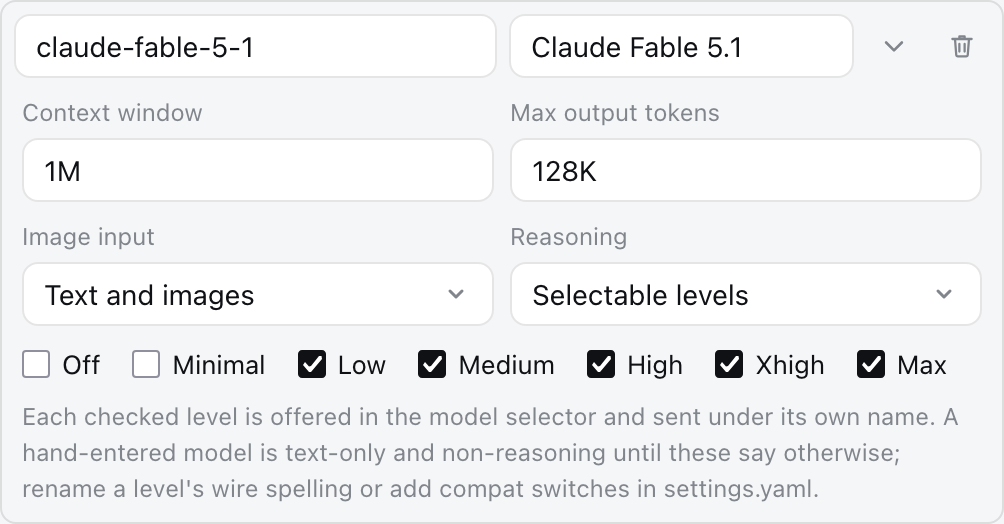
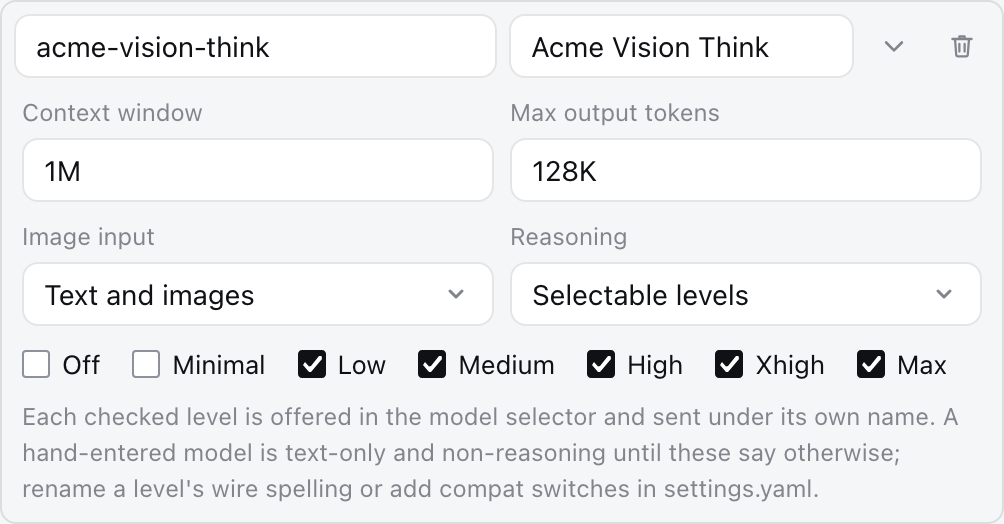
docs(readme): retake the Models screenshots in an isolated home and describe the fork
The Models-page and settings-nav pictures now come from a second dsh web
started against an isolated DSH_HOME with a fictitious acme-gateway
provider, no key, and no sessions, and the save path was verified as a
settings.yaml round trip plus the server's llm.models reply. The README
records that method, the fork's repository and issue routing, and that the
fork's additions inherit the upstream MIT license; the guide's Chinese
image-input heading gains the explicit anchor the shared fragment needs.

Changed region(s): [[0.5249, 0.0611, 0.7719, 0.1221], [0.0309, 0.0611, 0.2779, 0.1221]]

diff --git a/README.zh.md b/README.zh.md
@@ -46,13 +46,21 @@
 
 ![两个会话批量删除后的弹窗：空闲会话已删除，运行中会话的拒绝原因已显示，只有它仍处于选中状态](docs/user/guide/session-delete-partial-failure.png)
 
-**手动录入模型的视觉与推理能力。** 在模型页手动添加的模型——比已安装 pi-ai 目录更新的版本，或公司网关上的模型——在 `settings.yaml` 另行声明之前一律是纯文本、不推理的：粘贴图片会退化成一个文件引用，模型选择器也不提供任何思考档位。现在该行的**高级**折叠把两者与容量放在一起编辑。**图片输入**在跟随目录默认、文本 + 图片、仅文本之间选择；**推理**在跟随目录默认、不推理、以及勾选 pi-ai 七个档位的自定义集合之间选择，每个档位按规范的发送名称写入。控件无法表达的手写值会如实显示并保留，只剩 `off` 的字典在写入前即被拒绝，改写发送名称与 `compat` 开关仍留在 `settings.yaml` 中。详见[配置模型](docs/user/guide/providers.zh.md#图片输入)。
+**手动录入模型的视觉与推理能力。** 在模型页手动添加的模型——比已安装 pi-ai 目录更新的版本，或公司网关上的模型——在 `settings.yaml` 另行声明之前一律是纯文本、不推理的：粘贴图片会退化成一个文件引用，模型选择器也不提供任何思考档位。现在该行的**高级**折叠把两者与容量放在一起编辑。**图片输入**在跟随目录默认、文本 + 图片、仅文本之间选择；**推理**在跟随目录默认、不推理、以及勾选 pi-ai 七个档位的自定义集合之间选择，每个档位按规范的发送名称写入。控件无法表达的手写值会如实显示并保留，只剩 `off` 的字典在写入前即被拒绝，改写发送名称与 `compat` 开关仍留在 `settings.yaml` 中。详见[配置模型](docs/user/guide/providers.zh.md#image-input)。
 
 ![模型行的高级折叠：图片输入设为"文本 + 图片"，推理设为"自定义可选档位"](docs/user/guide/providers-model-capabilities.zh.png)
+
+放回自定义提供方的编辑卡片里看：折叠就在它所配置的那一行下面，模型、容量与能力声明一起读取、一起保存：
+
+![Acme Gateway 编辑卡片，acme-vision-think 行已展开，容量下方是两个下拉框与档位复选框](docs/user/guide/providers-model-editor.zh.png)
 
 **设置分区图标。** 插件贡献到设置面板的每个分区此前都共用"通用设置"的齿轮，视觉工具箱页与对话布局只能靠文字区分。外壳现在把已知分区 id 映射到各自的图标——`vision-toolkit` 是眼睛，`conversation-layout` 是侧栏面板——未知 id 仍沿用齿轮。
 
 ![设置导航：通用设置、模型、插件、Agent 预设、视觉工具、对话布局，各有自己的图标](docs/user/guide/settings-sections-nav.zh.png)
+
+**截图是怎么拍的。** 上面每一张图都是这个 fork 自己构建出来的真实界面，不是效果图。为了不把个人会话和密钥拍进去，会从 checkout 的源码另起一个 `dsh web`，指向一个隔离的家目录（`DSH_HOME=/private/tmp/dsh-demo-home`，3099 端口）：它的 profile 只列出基础 bundle、Web 应用和视觉 bundle，`settings.yaml` 只声明一个虚构的 `acme-gateway` 提供方和一个 `acme-vision-think` 模型——没有 API 密钥、没有会话、没有工作区。Playwright 以设备缩放 2、浅色主题驱动 Firefox，每种语言各跑一遍，并沿用户真实的路径点击：设置 → 模型 → 编辑 → 自定义设置 → 高级。模型页的图随后按一次往返而非一次渲染来核验：再勾选两个档位并通过卡片保存，隔离的 `settings.yaml` 被改写为带 `off: null` 与 `minimal: minimal`，服务端 `llm.models` 的回复也为该模型列出了全部七个档位。画面里只有虚构提供方和 fork 自己的产品外壳，因此无需打码；演示服务、浏览器会话、家目录和临时文件事后全部删除，个人的 `~/.dsh` 与 3080 端口自始至终不被触碰。图中行为一旦回退，会在 `pnpm run test:gui`（组件与外壳测试）和 `DSH_SNAPSHOT=replay pnpm run test:web`（组装后的浏览器）中暴露。
+
+**仓库。** 这个 fork 位于 [github.com/lens077/deepseek-harness](https://github.com/lens077/deepseek-harness)；其 `main` 跟随上游 `main`，并在其上叠加上述功能。fork 新增部分的问题请提到 fork 的 issues；上游行为、发布、插件发现与 Discord 社区仍归上游，见下文链接。这里的一切——上游代码与 fork 的新增——都采用 [MIT 许可证](LICENSE)，第三方许可证在 [THIRD_PARTY_NOTICES.md](THIRD_PARTY_NOTICES.md) 中披露。
 
 **状态。** 跟随上游的进行中工作。这里的分支可能包含若干条并行工作的半成品；不承诺任何东西稳定，改动也不会自动回流上游。MIT 许可证与全部上游声明原样继承——见 [LICENSE](LICENSE)。
 
@@ -131,6 +139,6 @@ pnpm dsh web
 
 ## 许可证
 
-[MIT](LICENSE)
+[MIT](LICENSE)——即上游的许可证，这个 fork 的新增部分原样继承。
 
 第三方依赖及其许可证见 [THIRD_PARTY_NOTICES.md](THIRD_PARTY_NOTICES.md)。

diff --git a/README.md b/README.md
@@ -50,9 +50,17 @@ Expanding a produced file compares its content before and after — one segment 
 
 ![A model row's advanced fold with Image input set to Text and images and Reasoning set to Selectable levels](docs/user/guide/providers-model-capabilities.png)
 
+In context, on a custom provider's editor card — the fold sits under the row it configures, so the model, its capacities, and its capability claims are read and saved together:
+
+![The Acme Gateway editor card with the acme-vision-think row expanded, showing both selects and the level checkboxes under the capacities](docs/user/guide/providers-model-editor.png)
+
 **Settings section glyphs.** Every section a plugin contributes to Settings used to share the General gear, so the vision bundle's page and Conversation layout were told apart by label alone. The shell now maps its known section ids to their own glyph — an eye for `vision-toolkit`, a side panel for `conversation-layout` — and keeps the gear for ids it does not know.
 
 ![The Settings navigation: General, Models, Plugins, Agent presets, Vision tools, and Conversation layout, each with its own glyph](docs/user/guide/settings-sections-nav.png)
+
+**How the screenshots are made.** Every picture above is a real screen from this fork's own build, never a mock-up. To keep personal sessions and keys out of them, a second `dsh web` is started from the checkout's source against an isolated home (`DSH_HOME=/private/tmp/dsh-demo-home`, port 3099): its profile lists only the base bundle, the web app, and the vision bundle, and its `settings.yaml` declares a fictitious `acme-gateway` provider with an `acme-vision-think` model — no API key, no sessions, no workspace. Playwright drives Firefox at device scale 2 in the light theme, once per language, and clicks through the same path a user would: Settings → Models → Edit → Customized settings → Advanced. The Models-page pictures were then verified as a round trip rather than a rendering: checking two more levels and saving through the card rewrote the isolated `settings.yaml` with `off: null` and `minimal: minimal`, and the server's `llm.models` reply listed all seven levels for that model. The fixture provider and the fork's own product chrome are the only content, so nothing needs masking; the demo server, browser sessions, home directory, and temporary files are removed afterwards, and the personal `~/.dsh` and port 3080 are never touched. Any regression in the pictured behavior shows up in `pnpm run test:gui` (the component and shell suites) and in `DSH_SNAPSHOT=replay pnpm run test:web` (the assembled browser).
+
+**Repository.** This fork lives at [github.com/lens077/deepseek-harness](https://github.com/lens077/deepseek-harness); its `main` tracks upstream `main` and adds the features above on top. File problems with the fork's additions as issues on the fork; upstream behavior, releases, plugin discovery, and the Discord community remain upstream's, linked below. Everything here — upstream code and the fork's additions alike — is under the [MIT license](LICENSE), and third-party licenses are disclosed in [THIRD_PARTY_NOTICES.md](THIRD_PARTY_NOTICES.md).
 
 **Status.** A work in progress that tracks upstream. Branches here may contain unfinished work from several parallel efforts; nothing is promised stable, and changes are not upstreamed automatically. The MIT license and every upstream notice are inherited unchanged — see [LICENSE](LICENSE).
 
@@ -110,6 +118,6 @@ For agents, follow [AGENTS.md](AGENTS.md).
 
 ## License
 
-[MIT](LICENSE)
+[MIT](LICENSE) — the upstream license, which this fork's additions inherit unchanged.
 
 Third-party dependencies and their licenses are disclosed in [THIRD_PARTY_NOTICES.md](THIRD_PARTY_NOTICES.md).

diff --git a/.agents/notes/implemented/feature/2026-09-02-model-row-capability-fields.zh.md b/.agents/notes/implemented/feature/2026-09-02-model-row-capability-fields.zh.md
@@ -30,7 +30,7 @@
 
 ## 验证
 
-`provider-form.client.spec.tsx` 通过真实卡片驱动下拉框与复选框：以适配器字段值写入 `input` 与 `reasoningEfforts`，把两者恢复为缺席，如实显示手写列表，并在字典只剩 `off` 时阻止应用。`model-capabilities.client.spec.ts` 固定分类、档位切换与每一种拒绝。`settings-root.client.spec.tsx` 断言两个新 id 各画各的图标，未知 id 仍画齿轮。[配置模型](../../../../docs/user/guide/providers.zh.md#图片输入)中的截图取自构建后的 Web UI。
+`provider-form.client.spec.tsx` 通过真实卡片驱动下拉框与复选框：以适配器字段值写入 `input` 与 `reasoningEfforts`，把两者恢复为缺席，如实显示手写列表，并在字典只剩 `off` 时阻止应用。`model-capabilities.client.spec.ts` 固定分类、档位切换与每一种拒绝。`settings-root.client.spec.tsx` 断言两个新 id 各画各的图标，未知 id 仍画齿轮。[配置模型](../../../../docs/user/guide/providers.zh.md#image-input)中的截图取自构建后的 Web UI。
 
 ## 后果
 
